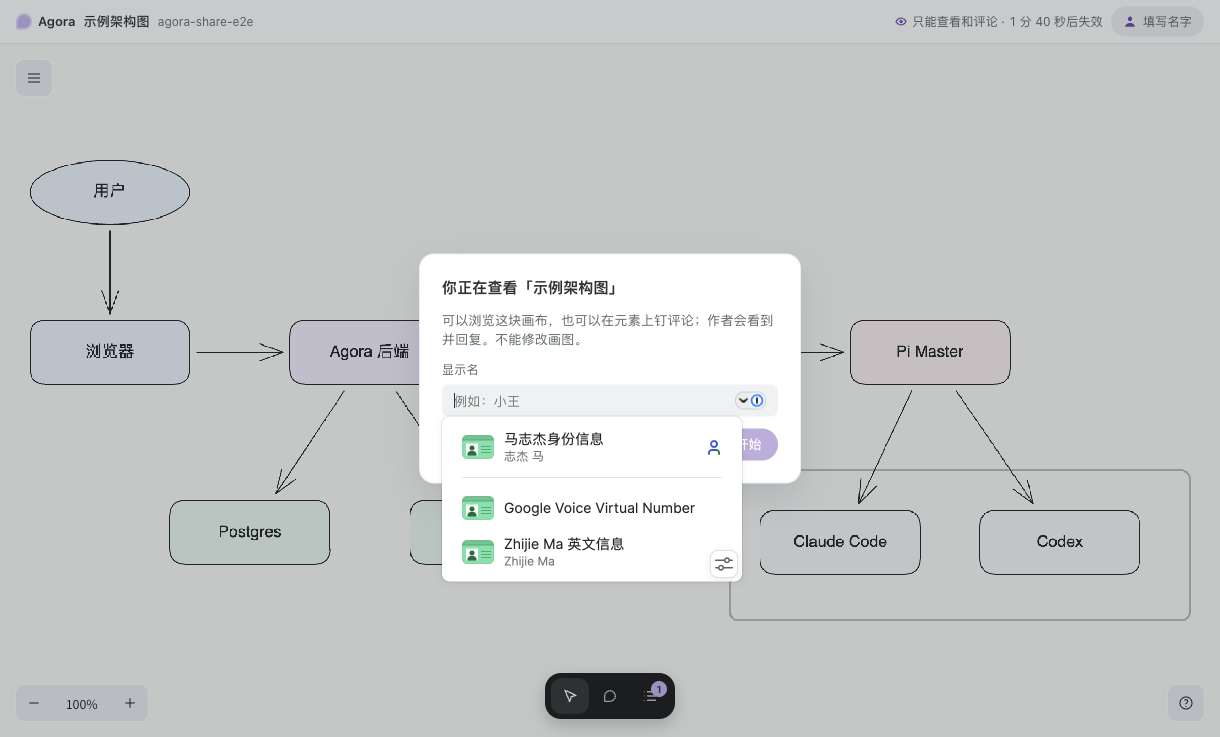
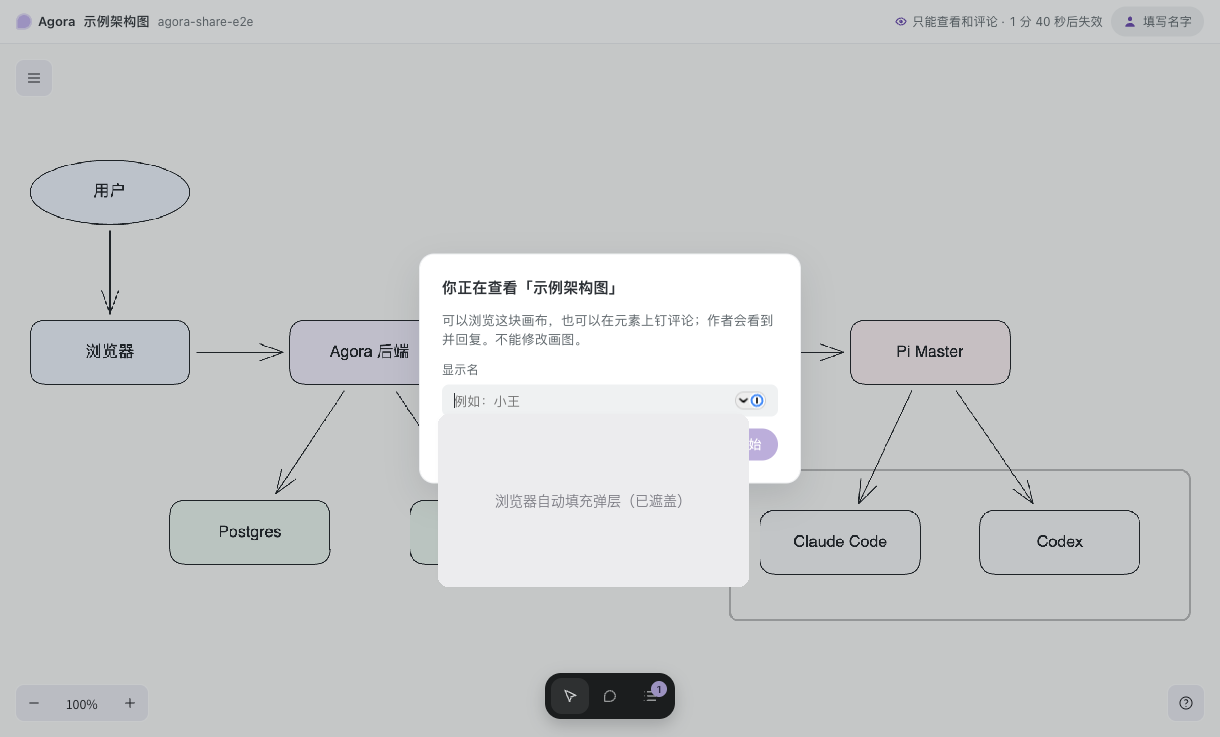
遮盖分享截图里的浏览器自动填充弹层，去掉图标说明里的本机路径

Changed region(s): [[0.3426, 0.6554, 0.623, 0.8114], [0.3738, 0.5617, 0.4984, 0.6242], [0.5918, 0.5929, 0.623, 0.6242]]

diff --git a/web/src/app/dither-extra/README.md b/web/src/app/dither-extra/README.md
@@ -1,6 +1,6 @@
 # dither-extra
 
-Copied unchanged from Marginalia (`~/Developer/memoglass/src/renderer/src/ui/dither-extra/`, same author) so Agora uses the same extra icons as the family (design-system.md §8). Agora imports them only through `../icons.tsx`.
+Copied unchanged from Marginalia (the same author's notes app, `ui/dither-extra/`) so Agora uses the same extra icons as the family (design-system.md §8). Agora imports them only through `../icons.tsx`.
 
 These 17 icons fill the gaps in [Dither Icons](https://dithered.dev) (`@unlocalhosted/dither-icons`, source at github.com/vijayksingh/dither-icons). They are tag, pin, paperclip, pencil, eye-off, bold, italic, more, info, columns, calendar, archive, list, heading, link, image and keyboard.
 
@@ -11,7 +11,7 @@ They are **derived in the style of Dither Icons** and follow its construction:
 - a one-shot motion for each icon, built from the library's authoring pieces (`motion` / `actor` / `pose` / `light`, three named stages, the `settle` / `smooth` / `accelerate` easings, about 0.8–1.1 s). Accent parts sit at opacity 0 until the motion runs;
 - the same playback rules: Web Animations run on hover, `:focus-visible` or click of the icon or its closest `.di-trigger`. `active` plays once each time it becomes true. `replayKey` replays. `prefers-reduced-motion`, `animate={false}` and unmount cancel a running motion. When the runtime is missing, a CSS fallback plays on hover.
 
-The `eye-off` icon reuses the library's own eye geometry (`EYE_ART`) so that it pairs with `eye`. The ordered-dither field is rebuilt with the library's formula. Everything else was drawn new for memoglass.
+The `eye-off` icon reuses the library's own eye geometry (`EYE_ART`) so that it pairs with `eye`. The ordered-dither field is rebuilt with the library's formula. Everything else was drawn new for Marginalia.
 
 ## API
 
